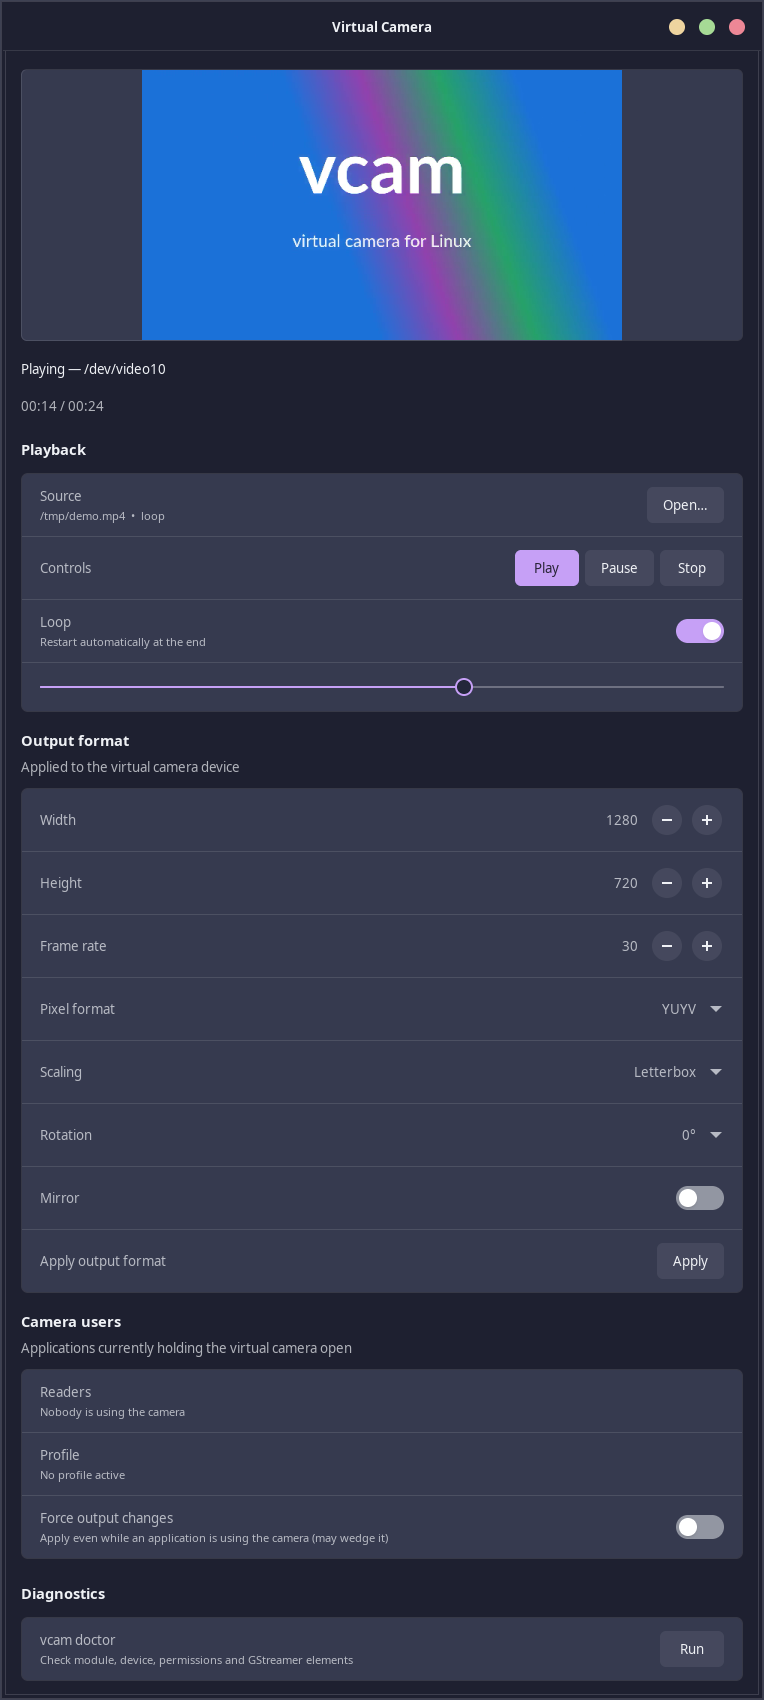
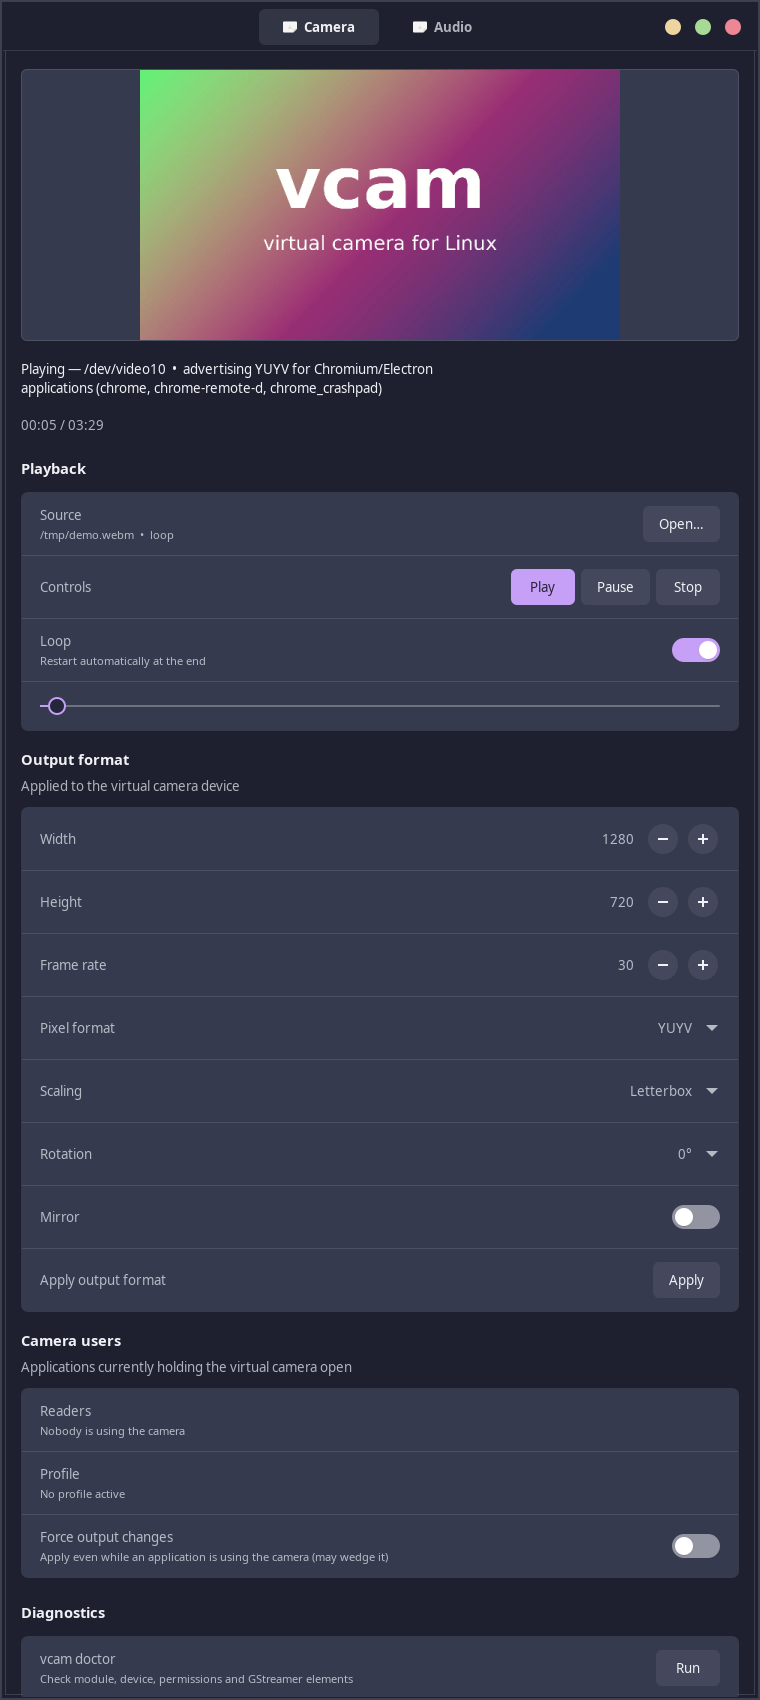
docs: complete the virtual microphone documentation
Add an Audio-tab screenshot and a refreshed GUI demo, a dedicated README section, a comparison-table row, an audio component and status field in the bug report template, the set_audio IPC example, and audio checks in the troubleshooting intro/reset steps.

Changed region(s): [[0.0303, 0.2182, 0.9684, 1.0], [0.1816, 0.0, 0.8171, 0.2494], [0.8171, 0.5924, 0.9079, 0.6547]]

diff --git a/README.md b/README.md
@@ -30,6 +30,7 @@ they never own the capture pipeline and can come and go freely.
 - [Quick start](#quick-start)
 - [Command line](#command-line)
 - [GUI](#gui)
+- [Virtual microphone](#virtual-microphone)
 - [Configuration](#configuration)
 - [How it works](#how-it-works)
 - [Application compatibility](#application-compatibility)
@@ -52,6 +53,7 @@ compositor-independent producer:
 | Stable caps and a black placeholder while idle | ✅ | ⚠ depends on OBS | ❌ |
 | Hot-swap source, pause, resume, seek | ✅ | ⚠ through OBS | ❌ |
 | Safe output changes while apps are streaming | ✅ (deferred) | ❌ | ❌ |
+| Virtual microphone that follows playback | ✅ | ❌ | ❌ |
 | Per-application output profiles | ✅ | ❌ | ❌ |
 | Watchdog with automatic recovery | ✅ | ❌ | ❌ |
 | Unprivileged user daemon | ✅ | ✅ | ✅ |
@@ -213,6 +215,37 @@ node names and the sound server it is using. The GUI is an IPC client: you can
 use it alongside the CLI and both stay in sync.
 
 ![vcam-gui demo](docs/assets/demo.gif)
+
+## Virtual microphone
+
+The source's audio track can be exposed as a normal microphone. It is enabled by
+default: `vcamd` creates a PulseAudio/PipeWire null sink and a remapped source
+called **Virtual Microphone** (`vcam_mic`), then plays the audio through it in
+step with the video. Pick **Virtual Microphone** in the microphone settings of
+the application that should receive it.
+
+<p align="center">
+  <img src="docs/assets/vcam-gui-audio.png" alt="vcam-gui Audio tab" width="620">
+</p>
+
+```sh
+vcam audio status   # backend, sink and source names
+vcam audio off      # remove the sink and source
+vcam audio on       # create them again
+```
+
+Audio follows playback: pause, seek, looping and stop apply to sound and video
+together, and the short pipeline run used for paused-seek previews is muted.
+While nothing is playing the microphone stays connected and silent, so
+applications can select it before playback starts and keep it selected across
+sources. Sources without an audio track are silent too.
+
+The microphone is best-effort. If `pactl` or a sound server is unavailable,
+playback continues, `vcam status` keeps working, and the **Audio** tab explains
+the error. The `[audio]` table in [Configuration](#configuration) changes the
+node names and whether the companion starts automatically; see
+[Troubleshooting](docs/troubleshooting.md#the-virtual-microphone-does-not-appear-or-is-silent)
+when the source does not show up.
 
 ## Configuration
 

diff --git a/docs/troubleshooting.md b/docs/troubleshooting.md
@@ -6,9 +6,10 @@ Start with:
 vcam doctor
 ```
 
-It checks the module, the device node, permissions, the card label and the
-GStreamer elements that vcam needs. The sections below explain the failures it
-reports.
+It checks the module, the device node, permissions, the card label, the
+GStreamer elements that vcam needs, and — when the virtual microphone is
+enabled — the `pactl` backend and the `vcam_sink`/`vcam_mic` nodes. The sections
+below explain the failures it reports.
 
 ## The module does not load
 
@@ -281,7 +282,13 @@ GST_DEBUG=3 vcamd                  # GStreamer element logging
 
 ```sh
 vcam stop
+vcam audio off      # unload vcam_sink/vcam_mic before stopping the daemon
 vcam shutdown
 pkill -x vcamd
 rm -f "$XDG_RUNTIME_DIR/vcam.sock"
 ```
+
+If a crashed daemon left the audio modules behind, remove them by name with
+`pactl unload-module`; the command in
+[the microphone section](#the-virtual-microphone-does-not-appear-or-is-silent)
+shows how to find them.

diff --git a/docs/architecture.md b/docs/architecture.md
@@ -182,6 +182,15 @@ Request:
 {"id": 1, "command": "start", "source": "/home/you/movie.mp4"}
 ```
 
+The daemon accepts `start`, `stop`, `pause`, `resume`, `seek`, `set_source`,
+`set_loop`, `set_output`, `set_profile`, `set_profile_auto`,
+`set_compatibility`, `set_audio`, `status`, `profiles`, `doctor` and
+`shutdown`. Toggling the virtual microphone uses the same envelope:
+
+```json
+{"id": 2, "command": "set_audio", "enabled": false}
+```
+
 Response:
 
 ```json
